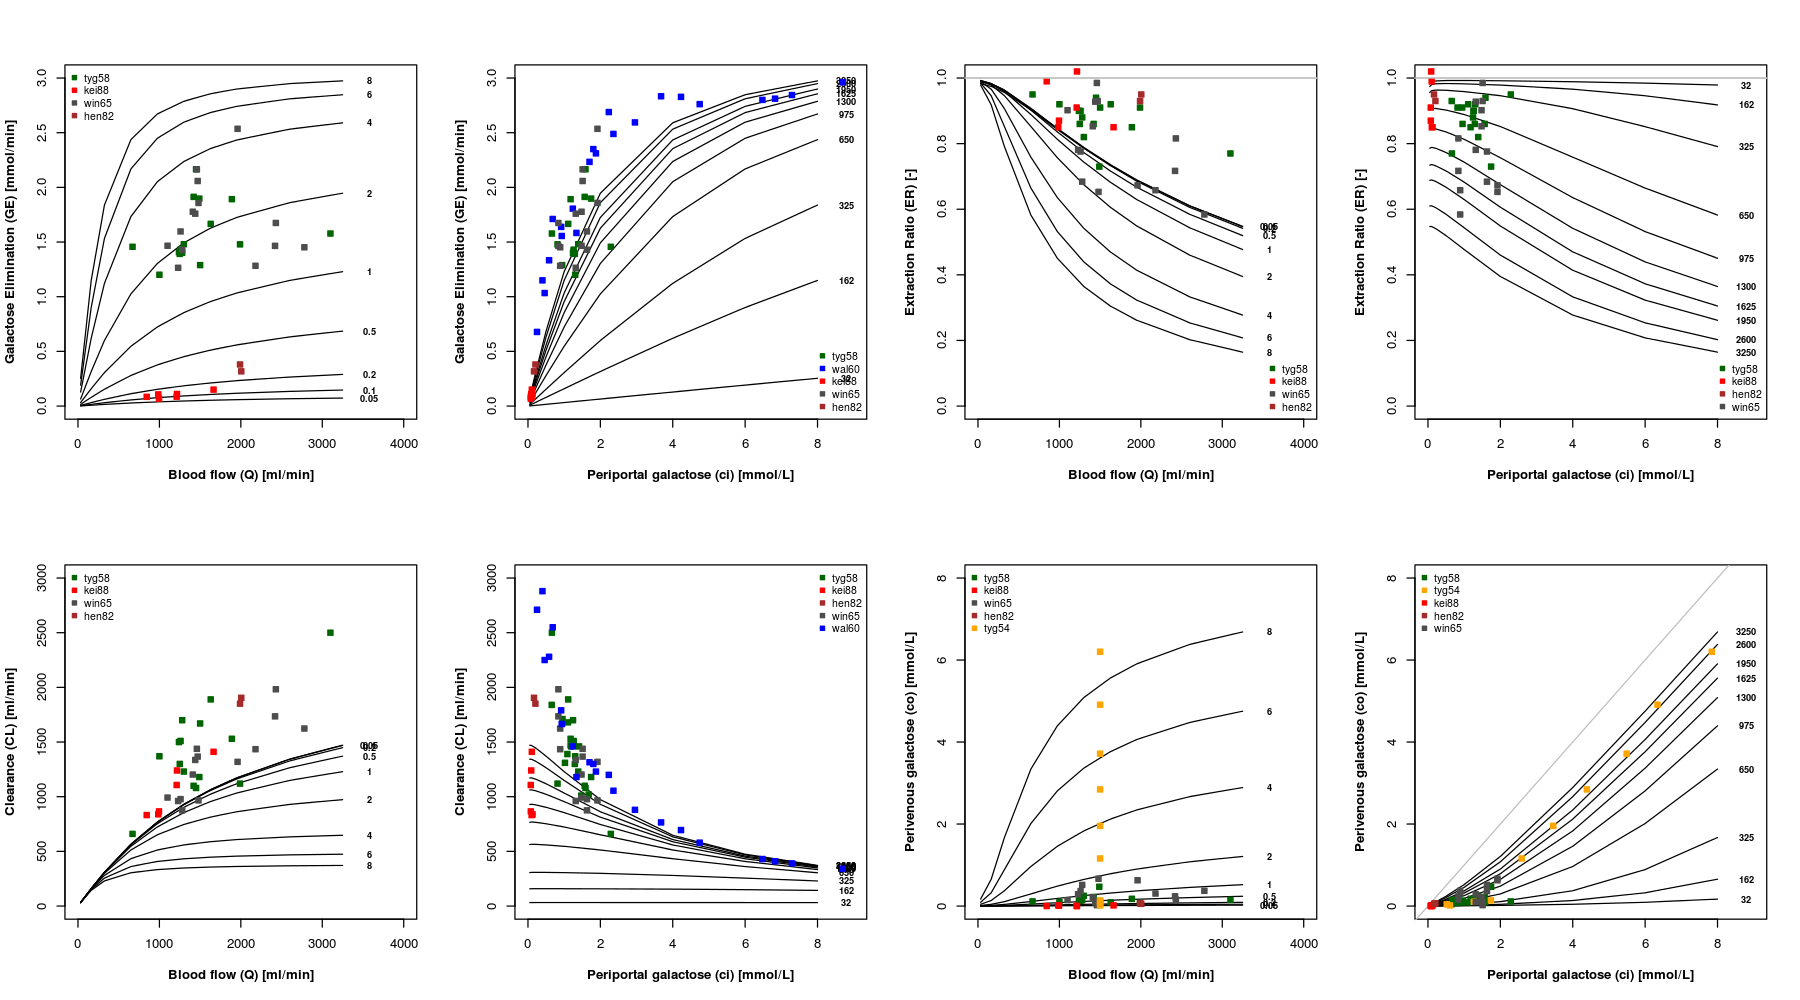
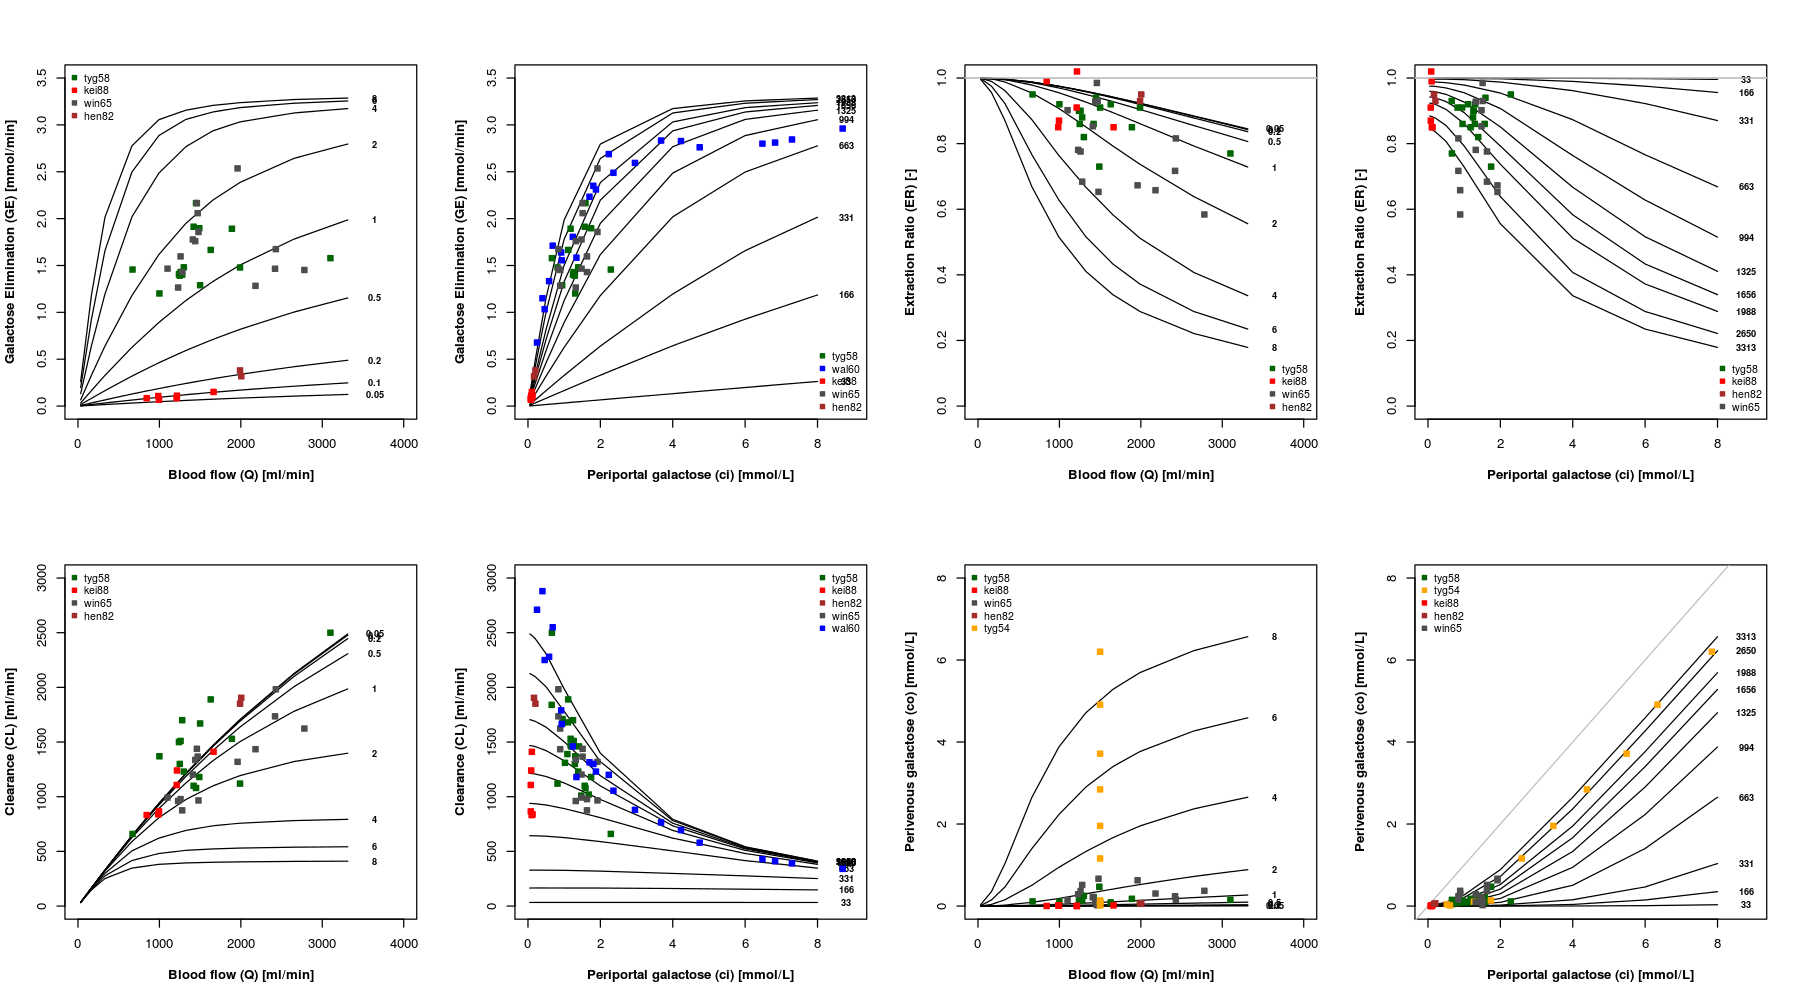
Model update to account for total GEC

diff --git a/python/simulator/simulator/SimulationFactory.py b/python/simulator/simulator/SimulationFactory.py
@@ -214,7 +214,7 @@ def make_galactose_dilution(sbml_id, N, sampling):
     
     # adapt flow in samples with the given f_flows
     # f_flows = (1.0, 0.5, 0.4, 0.3, 0.2, 0.1, 0.05, 0.01)
-    f_flows = (1.0, 0.5, 0.4)
+    f_flows = (0.6, 0.5, 0.4)
     
     raw_samples = createFlowSamples(N=N, sampling=sampling, f_flows=f_flows)
     
@@ -359,7 +359,7 @@ def derive_deficiency_simulations(task, samples, deficiencies):
 
 ####################################################################################
 if __name__ == "__main__":
-    VERSION = 106
+    VERSION = 107
     
     #----------------------------------------------------------------------#
     # TEST NETWORKS
@@ -394,7 +394,7 @@ if __name__ == "__main__":
     mean_samples = make_galatose_flow_samples(N=1, sampling='mean', 
                                              f_flows=f_flows, gal_challenge=gal_challenge)
     
-    if (1):
+    if (0):
         '''
         Galactose elimination curves. 
         The simple galactose elimination curve is calculated by scaling the
@@ -440,7 +440,7 @@ if __name__ == "__main__":
     #----------------------------------------------------------------------#
     # MULTIPLE INDICATOR DILUTION CURVES
     #----------------------------------------------------------------------#
-    if (0):
+    if (1):
         '''
         Multiple Indicator Dilution.
         Combination with different galactose challenge, i.e. dilution curves
@@ -460,8 +460,9 @@ if __name__ == "__main__":
         [task, raw_samples] = make_galactose_dilution(sbml_id, N=1, sampling="mean")
         samples = setParameterValuesInSamples(raw_samples, p_list)
         
+        scale_dog = 0.31/2
+        samples = setParameterInSamples(samples, "scale_f", scale_dog, 'per_m3', GLOBAL_PARAMETER)
         
-        # setParameterInSamples(samples, "scale_f", 0.37/2, unit, ptype)
         createSimulationsForSamples(task, samples)
         
         

diff --git a/python/simulator/simulator/roadrunner_tools/galactose_settings.py b/python/simulator/simulator/roadrunner_tools/galactose_settings.py
@@ -15,9 +15,9 @@ F_FLOW = 0.5
 # Model changes applied to all simulations
 D_TEMPLATE = {
               "gal_challenge" : 8,  
-              # "GLUT2_f" : 14,
+              # "GLUT2_f" : 17,
               # "GALK_k_gal": 0.14,
-              # "scale_f" : 0.37,   # human 
+              # "scale_f" : 0.31,   # human 
               # "y_dis" : 2.3E-6,
               #"y_cell" : 8.39E-6*1.12,
               #"f_cyto" : 0.4,

diff --git a/python/modelcreator/modelcreator/models/GalactoseFactory.py b/python/modelcreator/modelcreator/models/GalactoseFactory.py
@@ -22,7 +22,7 @@ if __name__ == "__main__":
     # definition of cell model and tissue model
     Nc = 20
     Nf = 1
-    version = 106
+    version = 107
     cell_model = CellModel.createModel('galactose.GalactoseCell')
     tdict = TissueModel.createTissueDict(['SinusoidalUnit', 
                                           'galactose.GalactoseSinusoid']) 

diff --git a/python/modelcreator/modelcreator/models/galactose/GalactoseCell.py b/python/modelcreator/modelcreator/models/galactose/GalactoseCell.py
@@ -49,7 +49,7 @@ species = [
             ('c__nadph',            0.1,    'mM'),
 ]
 pars = [# id, value, unit, constant            
-            ('scale_f',   0.37,   'per_m3',    True),
+            ('scale_f',   0.31,   'per_m3',    True),
             ('REF_P',     1.0,      'mM',   True),
             ('deficiency',  0,      '-',    True),
 ]  

diff --git a/python/modelcreator/modelcreator/models/galactose/GalactoseReactions.py b/python/modelcreator/modelcreator/models/galactose/GalactoseReactions.py
@@ -483,7 +483,7 @@ GLUT2_GAL = ReactionTemplate(
     'e__gal <-> c__gal [e__galM, c__galM]',
     compartments = ['c__', 'e__'],
     pars = [
-            ('GLUT2_f',    14.0,   'mole_per_s'),
+            ('GLUT2_f',    17.0,   'mole_per_s'),
             ('GLUT2_k_gal', 27.8, 'mM'),
             ('c__GLUT2_P',   1.0, 'mM'),
     ],
